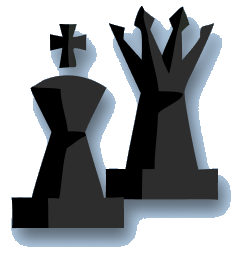
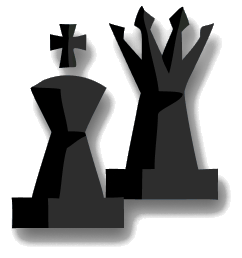
Fix corner-piece PNG halos, center Customise box, inline create/join flow
- Re-processed home-white-chess.png / home-black-chess.png: the chroma
  key left a blue-tinted halo on shadow edges (baked in from the
  original blue-background composite); desaturated the blue cast on
  those edge pixels so the pieces sit cleanly on any background color.
- Customise box content (title, theme picker, piece-style picker,
  button) is now centered as a block, not left-aligned.
- Create/join room no longer navigates to a separate waiting screen.
  Creating a room now shows the real room code inline (replacing the
  placeholder), with a "Waiting for opponent…" message and a Cancel
  button, all without leaving the home screen. WaitingScreen.jsx is
  now unused and removed.
- Added a `.input-on-dark` placeholder-color override so placeholder
  text in the Create-or-Join inputs reads clearly against the dark
  plum background; typed text was already white.

diff --git a/client/src/screens/HomeScreen.jsx b/client/src/screens/HomeScreen.jsx
@@ -21,10 +21,14 @@ const checkerStripStyle = {
   backgroundSize: 'clamp(22px, 3vw, 40px) clamp(22px, 3vw, 40px)',
 };
 
-export default function HomeScreen({ socket, theme, onThemeChange, pieceStyle, onPieceStyleChange }) {
+export default function HomeScreen({
+  socket, theme, onThemeChange, pieceStyle, onPieceStyleChange,
+  isWaiting, roomCode, onCancelWaiting,
+}) {
   const [name, setName] = useState('');
   const [code, setCode] = useState('');
   const [error, setError] = useState('');
+  const [copied, setCopied] = useState(false);
 
   const handleSubmit = () => {
     const trimmedName = name.trim();
@@ -37,6 +41,13 @@ export default function HomeScreen({ socket, theme, onThemeChange, pieceStyle, o
     } else {
       socket.emit('create_room', { name: trimmedName });
     }
+  };
+
+  const copyCode = () => {
+    navigator.clipboard.writeText(roomCode).then(() => {
+      setCopied(true);
+      setTimeout(() => setCopied(false), 2000);
+    });
   };
 
   return (
@@ -89,48 +100,88 @@ export default function HomeScreen({ socket, theme, onThemeChange, pieceStyle, o
           <div style={{ display: 'flex', flexDirection: 'column', gap: 14, marginBottom: 12, position: 'relative', zIndex: 1 }}>
             <input
               type="text"
+              className="input-on-dark"
               placeholder="Enter Your Name"
               value={name}
               onChange={e => setName(e.target.value)}
               onKeyDown={e => e.key === 'Enter' && handleSubmit()}
               maxLength={24}
+              disabled={isWaiting}
               style={{ background: 'transparent', borderColor: '#f5f5f5', color: '#f5f5f5' }}
             />
             <input
               type="text"
+              className="input-on-dark"
               placeholder="Enter Room Name (leave blank to create)"
               value={code}
               onChange={e => setCode(e.target.value)}
               onKeyDown={e => e.key === 'Enter' && handleSubmit()}
               maxLength={32}
+              disabled={isWaiting}
               style={{ background: 'transparent', borderColor: '#f5f5f5', color: '#f5f5f5', textTransform: 'lowercase' }}
             />
-            {/* Decorative placeholder — the real room link only exists once a room
-                has been created, shown on the waiting screen. Styled distinctly
-                (monospace, no border) so it doesn't read as a real input. */}
-            <div style={{
-              fontFamily: 'monospace', fontSize: 16, color: 'rgba(245,245,245,0.45)',
-              padding: '8px 10px', display: 'flex', alignItems: 'center', gap: 8,
-            }}>
-              {'<Link>'}
-              <span style={{ fontSize: 13, opacity: 0.7 }}>appears after creating a room</span>
-            </div>
+
+            {isWaiting ? (
+              /* Real room code/link now that one exists, shown right here
+                 instead of navigating to a separate screen. */
+              <div
+                onClick={copyCode}
+                title="Click to copy"
+                style={{
+                  fontFamily: 'monospace', fontSize: 16, color: '#f5f5f5',
+                  padding: '8px 10px', display: 'flex', alignItems: 'center', gap: 8,
+                  cursor: 'pointer', border: '1px solid rgba(245,245,245,0.4)',
+                  flexWrap: 'wrap',
+                }}
+              >
+                {roomCode}
+                <span style={{ fontSize: 13, opacity: 0.75 }}>{copied ? 'Copied!' : '📋 click to copy'}</span>
+              </div>
+            ) : (
+              /* Decorative placeholder — becomes the real code/link above
+                 once a room exists. */
+              <div style={{
+                fontFamily: 'monospace', fontSize: 16, color: 'rgba(245,245,245,0.45)',
+                padding: '8px 10px', display: 'flex', alignItems: 'center', gap: 8,
+              }}>
+                {'<Link>'}
+                <span style={{ fontSize: 13, opacity: 0.7 }}>appears after creating a room</span>
+              </div>
+            )}
           </div>
 
           {error && (
             <p style={{ color: '#ff9b9b', fontFamily: 'Poppins, sans-serif', fontSize: 14, marginBottom: 8, position: 'relative', zIndex: 1 }}>{error}</p>
           )}
 
+          {isWaiting && (
+            <p style={{ fontFamily: 'Poppins, sans-serif', fontSize: 15, color: 'rgba(245,245,245,0.8)', margin: '0 0 8px', position: 'relative', zIndex: 1 }}>
+              Waiting for opponent…
+            </p>
+          )}
+
           <div style={{ display: 'flex', justifyContent: 'center', marginTop: 'auto', paddingTop: 16, position: 'relative', zIndex: 1 }}>
-            <button
-              onClick={handleSubmit}
-              style={{
-                fontSize: 'clamp(16px, 2.2vw, 20px)', padding: '8px 24px',
-                background: '#f5f5f5', color: '#351e28', border: '1px solid #f5f5f5',
-              }}
-            >
-              Create/join room
-            </button>
+            {isWaiting ? (
+              <button
+                onClick={onCancelWaiting}
+                style={{
+                  fontSize: 'clamp(16px, 2.2vw, 20px)', padding: '8px 24px',
+                  background: 'transparent', color: '#f5f5f5', border: '1px solid #f5f5f5',
+                }}
+              >
+                Cancel
+              </button>
+            ) : (
+              <button
+                onClick={handleSubmit}
+                style={{
+                  fontSize: 'clamp(16px, 2.2vw, 20px)', padding: '8px 24px',
+                  background: '#f5f5f5', color: '#351e28', border: '1px solid #f5f5f5',
+                }}
+              >
+                Create/join room
+              </button>
+            )}
           </div>
         </div>
 
@@ -142,7 +193,8 @@ export default function HomeScreen({ socket, theme, onThemeChange, pieceStyle, o
           width: 'min(94vw, 480px)',
           boxSizing: 'border-box',
           padding: 'clamp(24px, 4vw, 40px) clamp(20px, 4vw, 36px)',
-          display: 'flex', flexDirection: 'column',
+          display: 'flex', flexDirection: 'column', alignItems: 'center',
+          textAlign: 'center',
         }}>
           {/* Black king + queen perched on bottom-right corner */}
           <img src={blackChess} alt="" style={{
@@ -165,11 +217,11 @@ export default function HomeScreen({ socket, theme, onThemeChange, pieceStyle, o
           </h2>
 
           {/* Board theme picker */}
-          <div style={{ marginBottom: 20, position: 'relative', zIndex: 1 }}>
-            <p style={{ fontFamily: 'Poppins, sans-serif', fontSize: 'clamp(14px, 2vw, 16px)', color: '#f5f5f5', margin: '0 0 10px' }}>
+          <div style={{ marginBottom: 20, position: 'relative', zIndex: 1, width: '100%' }}>
+            <p style={{ fontFamily: 'Poppins, sans-serif', fontSize: 'clamp(14px, 2vw, 16px)', color: '#f5f5f5', margin: '0 0 10px', textAlign: 'center' }}>
               Board Theme:
             </p>
-            <div style={{ display: 'flex', gap: 18, flexWrap: 'wrap' }}>
+            <div style={{ display: 'flex', gap: 18, flexWrap: 'wrap', justifyContent: 'center' }}>
               {THEME_SWATCHES.map(({ name: n, label, dark, light }) => {
                 const isActive = theme === n;
                 return (
@@ -201,11 +253,11 @@ export default function HomeScreen({ socket, theme, onThemeChange, pieceStyle, o
           </div>
 
           {/* Piece style picker */}
-          <div style={{ marginBottom: 12, position: 'relative', zIndex: 1 }}>
-            <p style={{ fontFamily: 'Poppins, sans-serif', fontSize: 'clamp(14px, 2vw, 16px)', color: '#f5f5f5', margin: '0 0 10px' }}>
+          <div style={{ marginBottom: 12, position: 'relative', zIndex: 1, width: '100%' }}>
+            <p style={{ fontFamily: 'Poppins, sans-serif', fontSize: 'clamp(14px, 2vw, 16px)', color: '#f5f5f5', margin: '0 0 10px', textAlign: 'center' }}>
               Chess Piece Type:
             </p>
-            <div style={{ display: 'flex', gap: 22, flexWrap: 'wrap' }}>
+            <div style={{ display: 'flex', gap: 22, flexWrap: 'wrap', justifyContent: 'center' }}>
               {PIECE_STYLE_NAMES.map((styleName) => {
                 const isActive = pieceStyle === styleName;
                 const previewSrc = PIECE_SETS[styleName].wn;
@@ -235,7 +287,7 @@ export default function HomeScreen({ socket, theme, onThemeChange, pieceStyle, o
             </div>
           </div>
 
-          <div style={{ display: 'flex', justifyContent: 'center', marginTop: 'auto', paddingTop: 16, position: 'relative', zIndex: 1 }}>
+          <div style={{ display: 'flex', justifyContent: 'center', marginTop: 'auto', paddingTop: 16, position: 'relative', zIndex: 1, width: '100%' }}>
             <button
               onClick={handleSubmit}
               style={{

diff --git a/client/src/App.jsx b/client/src/App.jsx
@@ -2,7 +2,6 @@ import { useState, useEffect } from 'react';
 import { io } from 'socket.io-client';
 import LoadingScreen from './screens/LoadingScreen.jsx';
 import HomeScreen from './screens/HomeScreen.jsx';
-import WaitingScreen from './screens/WaitingScreen.jsx';
 import GameScreen from './screens/GameScreen.jsx';
 import ResultScreen from './screens/ResultScreen.jsx';
 import { applyTheme } from './lib/themes.js';
@@ -96,6 +95,7 @@ export default function App() {
   const [lastMove, setLastMove] = useState(null);
   const [gameResult, setGameResult] = useState(null);
   const [waitingForRematch, setWaitingForRematch] = useState(false);
+  const [isWaitingForOpponent, setIsWaitingForOpponent] = useState(false);
   const [toastMsg, setToastMsg] = useState(null);
 
   useEffect(() => { applyTheme(theme); }, [theme]);
@@ -144,7 +144,8 @@ export default function App() {
   useEffect(() => {
     const onRoomCreated = ({ code }) => {
       setRoomCode(code);
-      setScreen('waiting');
+      setIsWaitingForOpponent(true);
+      // Stay on the home screen — the room code now shows inline there.
     };
 
     const onJoinError = ({ message }) => showToast(message);
@@ -163,6 +164,7 @@ export default function App() {
       setGameResult(null);
       setWaitingForRematch(false);
       setRoomCode(rc);
+      setIsWaitingForOpponent(false);
       setScreen('game');
       saveSession({ roomCode: rc, playerColor: color, playerName: pName, opponentName: oName, startedAt: Date.now() });
     };
@@ -299,7 +301,7 @@ export default function App() {
 
   const handleCancelWaiting = () => {
     socket.emit('go_home');
-    setScreen('home');
+    setIsWaitingForOpponent(false);
     setRoomCode('');
   };
 
@@ -326,10 +328,10 @@ export default function App() {
           onThemeChange={handleThemeChange}
           pieceStyle={pieceStyle}
           onPieceStyleChange={handlePieceStyleChange}
+          isWaiting={isWaitingForOpponent}
+          roomCode={roomCode}
+          onCancelWaiting={handleCancelWaiting}
         />
-      )}
-      {screen === 'waiting' && (
-        <WaitingScreen roomCode={roomCode} onCancel={handleCancelWaiting} />
       )}
       {screen === 'game' && (
         <GameScreen

diff --git a/client/src/index.css b/client/src/index.css
@@ -116,3 +116,4 @@ input[type="text"] {
   border-radius: 0;
 }
 input[type="text"]::placeholder { color: rgba(18,18,18,0.4); }
+input[type="text"].input-on-dark::placeholder { color: rgba(245,245,245,0.55); }